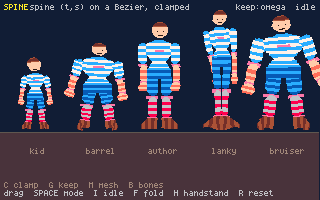
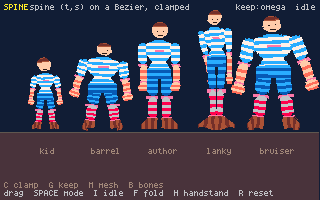
boxhuman: the arms were never the problem, the hands were

diff --git a/tools/carts/boxhuman.c b/tools/carts/boxhuman.c
@@ -9,14 +9,16 @@
   "teaches": ["rigid-body", "procedural-mesh"],
   "lineage": "Slice 4 of the playtime-into-dreamengine port. puppet.c gave the data-driven Rig (parts + sprung hinges); boxskin.c skinned ONE texture across ONE elbow with LBS. This is the whole figure: the 1:1 between sprite and body is broken (15 invisible bones, 6 sprite skins), weights come from distance to a bone SEGMENT rather than to a bone centre (playtime's applySegmentWeights lesson: point-distance collapses mesh width at bone midpoints), and the blend is DQS rather than LBS so a folded knee doesn't candy-wrapper. A whole leg is ONE texture bending at hip, knee AND ankle.",
   "description": {
-    "summary": "FIVE DIFFERENT PEOPLE built from one rig table and one sprite sheet: a small kid with a big head and short limbs, a barrel with a long thick torso on short legs, the rig exactly as authored, a lanky one with long legs and a small head, and a broad bruiser. Nothing about them is hand-placed. Each build states a stiffness multiplier for its joint springs (the floppiest sags, the stiffest stands rigid), an overall size, an overall thickness, how long and how thick the bones of each GROUP are, and a short list of joints turned away from the authored rest to give it an ATTITUDE: the kid cocks its head and stands with its legs apart, the barrel leans back with its arms off its belly and its feet planted wide, the lanky one stoops with its arms tucked and its knees together, the bruiser cannot put its arms down. Only the middle figure is left square-on, as the control. The rig then walks its own parent chain to work out where every bone and every sprite pixel ends up. Lengthen a thigh and the knee, the ankle, the foot and the whole leg strip follow; tilt a chest and the shoulders, both arms, the head and their skins swing with it. Each limb is a single continuous sprite strip stretched over several Box2D bones. The right leg is one 20x62 texture that bends at the hip, the knee and the ankle; the left leg is the SAME texture mirrored, and all five guys share that one sheet. Each figure gets its own Box2D collision group, so a guy ignores his own limbs but bumps into his neighbours. Press F to fold a limb to its limit, then SPACE to A/B four ways of deforming that texture: a Bezier SPINE, dual-quaternion and linear weighted blends, and rigid one-bone-per-vertex. Every limb is BANDED across its axis on purpose: a flat colour tells you nothing about how a skin deformed, but a regular stripe fans out on the outside of a bend, bunches on the inside, and shears visibly the moment a blend mode gets it wrong.",
-    "detail": "Four deformation modes over one rig, because the interesting question is not how to attach a texture to a bone but what happens at a hard bend. SPINE is playtime's MESHUSERT spine-bind ported: each vertex is stored as (t, s) — arc-length fraction along a Bezier drawn through the limb's joint chain, plus signed perpendicular offset — and replanted each frame on the live curve, with no weights and nothing to tune. On top of it sits a CURVATURE CLAMP. playtime's own miter clamp (written for its ribbon path, never wired into spine-bind) was tried first and measured worse than no clamp: it is the right formula for a polyline corner, but a Bezier spine has no such corner, so min(segA,segB) only measures sample spacing and collapses exactly at a bend. The correct bound is the local radius of curvature - an offset curve folds on the concave side once the offset exceeds R - and clamping to 0.92R takes the fold artifact to zero at every angle tested. The cart carries its own oracle for this — every triangle's winding is baked at bind time and compared each frame, so 'inverted triangles' is a number, not an opinion. At a full elbow-and-knee fold: SPINE+clamp 4, SPINE without clamp 7, DQS 19, LBS 19, RIGID 43, out of 880. The structural move over puppet.c: BONES and SKINS are separate lists. 15 bones are invisible Box2D boxes joined by sprung, angle-limited revolutes (pelvis, chest, head, and upper/lower/extremity for each of four limbs). 6 skins are sprite rects from the sheet, each naming the subset of bones that deforms it. Per skin: a grid over the rect's opaque pixels becomes a triangle mesh; each vertex is weighted by 1-smoothstep(0, radius, distanceToBoneSegment), pruned to the best 3 bones and renormalised; bind pose stores the vertex in each bone's LOCAL frame plus that bone's rest angle. Each frame the vertex is placed by blending the bones' DELTA rotations as a circular mean, rotating the bind vertex once by that blend, then adding the weight-averaged translation residual, and tritex draws the triangles with UVs that never move. Left and right limbs share one sprite rect: the geometry mirrors, the UVs do not. The sprite sheet is drawn as a deformation TEST PATTERN — breton torso, banded sleeves and shorts, striped socks, cross-banded shoes — so the eye can read stretch and shear directly instead of guessing from a silhouette. The per-bone blend radius is what keeps a foot rigid while a thigh blends over 14 pixels. BUILDS, and why the rig is now WALKED: an affine transform of the table can make a figure bigger or thicker, and that is all it can do. Real proportions cannot come from it, because BONES[] stores absolute positions, so lengthening a thigh would leave the knee, the ankle, the foot and the leg skin's rest placement exactly where they were. So the table became the REFERENCE pose and each build derives its own rig from it, parent first: a bone keeps its authored direction, takes its group's length, and starts at the same spot on its parent's DERIVED segment, which is what makes a longer chest carry the shoulder up with it and a wider pelvis spread both legs. Two primitives do all of it, and they are the spine bind's decomposition applied per bone instead of per chain: a point maps to (fraction along a bone, signed perpendicular offset), and that pair maps back onto the build's version of that bone with the offset scaled by its thickness. The skins ride the same remap, weight-blended by the smoothstep the skinning already uses so seams between bones stay smooth, which is the substitution that turns a scaled copy into a different build: the leg strip's rest position becomes a function of where the shin ENDED UP. Doing it at BIND and not at draw keeps it free, since the mesh is born the shape this figure is and no per-frame code knows the difference. Two invariants guard it. Round-tripping through both primitives is the identity, so the unproportioned 'author' build must render exactly as the pre-derivation cart did: it does, bit for bit, once the derived rest pose is snapped to a 1/256 px grid (without the snap a vertex authored exactly on an integer came back a hair either side of it and moved a shared triangle edge by a pixel). And the winding oracle says the shapes are honest: a 300-frame fold peaks at 15 inverted triangles of 22000 against 12 for five plain scaled copies, with the weighted modes slightly BETTER than before. The per-build flip counter earns its keep here by showing the two mode families fail for opposite reasons: the weighted blends are wrecked by deep poses (the floppiest build owns 60% of their inversions, the thickest is nearly clean) while SPINE is indifferent to pose and vulnerable to THICKNESS, since an offset curve folds once the offset passes the local radius of curvature. A build's POSE rides the same walk (a rotation folded into the chain, accumulating down it the way a real skeleton does) and becomes that build's rest: the joint limits are measured from it and KEEP_ANGLE defends it, so a stoop stays a stoop under gravity rather than being a starting condition that decays. The bodies still rest at rotation identity with every reference angle at zero, because the pose goes into the SHAPE exactly as the authored direction always did, which keeps the joint branch-cut trap shut. Shape and attitude both feed back into the physics, which is the honest half of doing it this way rather than drawing five sprites: the big-headed kid is top-heavy and needs roughly twice the joint stiffness of the old floppiest build to stay on its feet (measured 0.41 of its rest height at stiff 0.35, 0.82 at 0.65), and the rig being a SIDE view bounds what a pose can even say. Turning a foot here does not splay it outward, it lifts the toe, and a figure balancing on a tilted sole sags: that alone cost the smallest build 0.14 of its standing height, while the head angle it was blamed on measured nothing at all. The rig is a FRONT view, both limbs of a pair being separate bones either side of the centre line, so an angle here swings a limb OUT rather than forward, which is what makes a STANCE expressible at all. The feet are the exception, and it cost a measurement to find: in this plane a foot angle rolls the sole onto its edge, and a figure balancing on the edge of its shoe sags (0.14 of its standing height on the smallest build, next to which the head angle first blamed for it measured nothing). So a foot alone does not inherit the chain's rotation, which is both the fix and the anatomy: you splay your legs and your feet stay flat because the ankle takes up the difference. A stance is therefore one number per build rather than an angle plus a counter-rotation nobody remembers, and it cannot be got wrong by forgetting the second half. The IDLE fidget is the same ask one layer further out, and it exposed something about the rig worth writing down: two different authorities own a bone's angle here. Bones with no keep-angle gain (chest, arms) are steered by their hinge SPRING, so setting the joint's target makes the spring chase it and the build's temperament shows up for free as lag and undershoot. The bones that hold the figure up (head, thighs, shins, feet) are steered by the KEEP_ANGLE controller, which writes angular velocity outright and would simply erase a joint target, so for those the fidget is added to the angle it DEFENDS instead. One ask, accumulated down the chain exactly like the pose, feeding whichever authority owns each bone. It costs nothing measurable: the fold oracle reads 21 inverted triangles of 22000 with five bodies breathing and 20 with them frozen. Springs deliberately do NOT scale with size; the source carries the measurement that says the correction is inert across this range.",
+    "summary": "FIVE DIFFERENT PEOPLE built from one rig table and one sprite sheet: a small kid with a big head and short limbs, a barrel with a long thick torso on short legs, the rig exactly as authored, a lanky one with long legs and a small head, and a broad bruiser. Nothing about them is hand-placed. Each build states a stiffness multiplier for its joint springs (the floppiest sags, the stiffest stands rigid), an overall size, an overall thickness, how long and how thick the bones of each GROUP are, and a short list of joints turned away from the authored rest to give it an ATTITUDE: the kid cocks its head and stands with its legs apart, the barrel leans back with its arms off its belly and its feet planted wide, the lanky one stoops with its arms tucked and its knees together, the bruiser cannot put its arms down. Only the middle figure is left square-on, as the control. Press H and all five turn over into handstands and hold them, on their hands with their palms planted, heads hanging between their arms, legs straddled just wide enough to fit under the top of the screen. The rig then walks its own parent chain to work out where every bone and every sprite pixel ends up. Lengthen a thigh and the knee, the ankle, the foot and the whole leg strip follow; tilt a chest and the shoulders, both arms, the head and their skins swing with it. Each limb is a single continuous sprite strip stretched over several Box2D bones. The right leg is one 20x62 texture that bends at the hip, the knee and the ankle; the left leg is the SAME texture mirrored, and all five guys share that one sheet. Each figure gets its own Box2D collision group, so a guy ignores his own limbs but bumps into his neighbours. Press F to fold a limb to its limit, then SPACE to A/B four ways of deforming that texture: a Bezier SPINE, dual-quaternion and linear weighted blends, and rigid one-bone-per-vertex. Every limb is BANDED across its axis on purpose: a flat colour tells you nothing about how a skin deformed, but a regular stripe fans out on the outside of a bend, bunches on the inside, and shears visibly the moment a blend mode gets it wrong.",
+    "detail": "Four deformation modes over one rig, because the interesting question is not how to attach a texture to a bone but what happens at a hard bend. SPINE is playtime's MESHUSERT spine-bind ported: each vertex is stored as (t, s) — arc-length fraction along a Bezier drawn through the limb's joint chain, plus signed perpendicular offset — and replanted each frame on the live curve, with no weights and nothing to tune. On top of it sits a CURVATURE CLAMP. playtime's own miter clamp (written for its ribbon path, never wired into spine-bind) was tried first and measured worse than no clamp: it is the right formula for a polyline corner, but a Bezier spine has no such corner, so min(segA,segB) only measures sample spacing and collapses exactly at a bend. The correct bound is the local radius of curvature - an offset curve folds on the concave side once the offset exceeds R - and clamping to 0.92R takes the fold artifact to zero at every angle tested. The cart carries its own oracle for this — every triangle's winding is baked at bind time and compared each frame, so 'inverted triangles' is a number, not an opinion. At a full elbow-and-knee fold: SPINE+clamp 4, SPINE without clamp 7, DQS 19, LBS 19, RIGID 43, out of 880. The structural move over puppet.c: BONES and SKINS are separate lists. 15 bones are invisible Box2D boxes joined by sprung, angle-limited revolutes (pelvis, chest, head, and upper/lower/extremity for each of four limbs). 6 skins are sprite rects from the sheet, each naming the subset of bones that deforms it. Per skin: a grid over the rect's opaque pixels becomes a triangle mesh; each vertex is weighted by 1-smoothstep(0, radius, distanceToBoneSegment), pruned to the best 3 bones and renormalised; bind pose stores the vertex in each bone's LOCAL frame plus that bone's rest angle. Each frame the vertex is placed by blending the bones' DELTA rotations as a circular mean, rotating the bind vertex once by that blend, then adding the weight-averaged translation residual, and tritex draws the triangles with UVs that never move. Left and right limbs share one sprite rect: the geometry mirrors, the UVs do not. The sprite sheet is drawn as a deformation TEST PATTERN — breton torso, banded sleeves and shorts, striped socks, cross-banded shoes — so the eye can read stretch and shear directly instead of guessing from a silhouette. The per-bone blend radius is what keeps a foot rigid while a thigh blends over 14 pixels. BUILDS, and why the rig is now WALKED: an affine transform of the table can make a figure bigger or thicker, and that is all it can do. Real proportions cannot come from it, because BONES[] stores absolute positions, so lengthening a thigh would leave the knee, the ankle, the foot and the leg skin's rest placement exactly where they were. So the table became the REFERENCE pose and each build derives its own rig from it, parent first: a bone keeps its authored direction, takes its group's length, and starts at the same spot on its parent's DERIVED segment, which is what makes a longer chest carry the shoulder up with it and a wider pelvis spread both legs. Two primitives do all of it, and they are the spine bind's decomposition applied per bone instead of per chain: a point maps to (fraction along a bone, signed perpendicular offset), and that pair maps back onto the build's version of that bone with the offset scaled by its thickness. The skins ride the same remap, weight-blended by the smoothstep the skinning already uses so seams between bones stay smooth, which is the substitution that turns a scaled copy into a different build: the leg strip's rest position becomes a function of where the shin ENDED UP. Doing it at BIND and not at draw keeps it free, since the mesh is born the shape this figure is and no per-frame code knows the difference. Two invariants guard it. Round-tripping through both primitives is the identity, so the unproportioned 'author' build must render exactly as the pre-derivation cart did: it does, bit for bit, once the derived rest pose is snapped to a 1/256 px grid (without the snap a vertex authored exactly on an integer came back a hair either side of it and moved a shared triangle edge by a pixel). And the winding oracle says the shapes are honest: a 300-frame fold peaks at 15 inverted triangles of 22000 against 12 for five plain scaled copies, with the weighted modes slightly BETTER than before. The per-build flip counter earns its keep here by showing the two mode families fail for opposite reasons: the weighted blends are wrecked by deep poses (the floppiest build owns 60% of their inversions, the thickest is nearly clean) while SPINE is indifferent to pose and vulnerable to THICKNESS, since an offset curve folds once the offset passes the local radius of curvature. A build's POSE rides the same walk (a rotation folded into the chain, accumulating down it the way a real skeleton does) and becomes that build's rest: the joint limits are measured from it and KEEP_ANGLE defends it, so a stoop stays a stoop under gravity rather than being a starting condition that decays. The bodies still rest at rotation identity with every reference angle at zero, because the pose goes into the SHAPE exactly as the authored direction always did, which keeps the joint branch-cut trap shut. Shape and attitude both feed back into the physics, which is the honest half of doing it this way rather than drawing five sprites: the big-headed kid is top-heavy and needs roughly twice the joint stiffness of the old floppiest build to stay on its feet (measured 0.41 of its rest height at stiff 0.35, 0.82 at 0.65), and the rig being a SIDE view bounds what a pose can even say. Turning a foot here does not splay it outward, it lifts the toe, and a figure balancing on a tilted sole sags: that alone cost the smallest build 0.14 of its standing height, while the head angle it was blamed on measured nothing at all. The rig is a FRONT view, both limbs of a pair being separate bones either side of the centre line, so an angle here swings a limb OUT rather than forward, which is what makes a STANCE expressible at all. The feet are the exception, and it cost a measurement to find: in this plane a foot angle rolls the sole onto its edge, and a figure balancing on the edge of its shoe sags (0.14 of its standing height on the smallest build, next to which the head angle first blamed for it measured nothing). So a foot alone does not inherit the chain's rotation, which is both the fix and the anatomy: you splay your legs and your feet stay flat because the ankle takes up the difference. A stance is therefore one number per build rather than an angle plus a counter-rotation nobody remembers, and it cannot be got wrong by forgetting the second half. The IDLE fidget is the same ask one layer further out, and it exposed something about the rig worth writing down: two different authorities own a bone's angle here. Bones with no keep-angle gain (chest, arms) are steered by their hinge SPRING, so setting the joint's target makes the spring chase it and the build's temperament shows up for free as lag and undershoot. The bones that hold the figure up (head, thighs, shins, feet) are steered by the KEEP_ANGLE controller, which writes angular velocity outright and would simply erase a joint target, so for those the fidget is added to the angle it DEFENDS instead. One ask, accumulated down the chain exactly like the pose, feeding whichever authority owns each bone. It costs nothing measurable: the fold oracle reads 21 inverted triangles of 22000 with five bodies breathing and 20 with them frozen. The HANDSTAND is where that two-authority structure gets tested properly, and the first attempt failed in a way worth keeping: leave the bodies alone, add 180 degrees to every angle the controller defends, and let physics work out how. It does not work. Four of the five rolled onto their backs with their limbs waving and the stiffest simply stayed standing, because an orientation controller owns every bone's angle and not one bone's height, so 'be upside down' is satisfied just as well by lying down. The fix is the division of labour that makes them stand at all: nothing in this cart ever made a figure stand up, it was PLACED standing and the controller kept it there. So the flip is a placement too, and it is point reflections with no trigonometry in it, reflect each arm chain through its own shoulder to put the arms overhead, then reflect everything through the pelvis to turn the figure over, then re-anchor onto the sole line so the hands come down where the feet stood. Composing those two is why the arms end up pointing at the floor again: they were hanging, and now they are holding. The controller's targets fall out of the same composition, and the keep gains take the FIRMER of each limb's own job and its counterpart's, because standing on your arms means the arms are legs now and the chest inherits the pelvis's job of holding the line, which is the change that stopped two builds jackknifing. The straddle is not a constant but the smallest angle each build can open its legs to and still fit under the top of the screen, because arms overhead make an inverted figure taller than a standing one, and wide enough to hold straight was also wide enough for the crowd to shove itself 52 px sideways. The lanky build solves for 23 degrees and everyone else for 8. The last question the handstand answered is the one it invites: the arms visibly bend under the load, so are they too weak? No, and the A/B is the most surprising measurement here. Three ways of firming them up, judged by how far the torso ends up off vertical after 500 frames: as authored 0.5 degrees, with knee-stiff springs 34, with a leg's bulk 2.6, with all of it 53. Stiffening the arms straightens the elbow and RUINS the handstand, because a rigid strut fights the chest's own balance controller instead of yielding to it and the compromise tips the whole body over. What helped was not strength but CONTACT: the figure has feet and no hands, a foot being a wide flat sole and a hand the tip of a thin vertical bone, so the wrist now turns the palm flat against the floor the way anybody planting their hands would, which halves the arm bend for two degrees of lean. A little bend in the arms is not weakness, it is the compliance the balance needs, and the number that says whether a handstand is any good is the TORSO's angle, never the elbow's. Springs deliberately do NOT scale with size; the source carries the measurement that says the correction is inert across this range.",
     "controls": "Drag any bone with the mouse to pose the figure. F drives the right elbow and knee to a full fold (the extreme-pose test - a mouse drag cannot reliably reach it, the chain would rather swing at the hip). H turns the whole crowd upside down into handstands, and again to stand them back up (it composes with everything: fold a knee while inverted and you get a tucked handstand). I stops the idle fidget, which is also how you measure a still pose. SPACE cycles SPINE / DQS / LBS / RIGID. C toggles spine mode's curvature clamp. M shows the mesh wireframe. B shows the bone skeleton. R resets."
   },
   "todo": [
     "Proportions are stated per GROUP (torso, head, arm, leg), because 15 numbers per build would be the second rig table this cart refuses to have. Per-BONE would buy a pot belly over a normal chest, or one arm longer than the other, and the machinery already takes it: bg[] and the derived segments are per bone, only the authoring is grouped. What that needs is a way to state it without a wall of numbers, which is a design question rather than a code one.",
     "Poses are authored in degrees per joint, which is honest but blunt: what a build actually wants to say is 'stand like this', and the same attitude on a 0.72x kid and a 1.08x bruiser does not read the same. A named pose vocabulary (slouch, swagger, at-ease) resolved against the build would be the next step, and it is the same question the per-bone proportion rung asks: how do you state this without a wall of numbers.",
-    "Nothing yet drives a pose over TIME. The walk already accepts any angle, so a build could breathe, shift its weight or fidget by feeding proportion() a slow oscillation, except that would mean rebinding the meshes every frame (the whole point of binding once is that it is free). The cheap version is to leave the bind alone and drive the joints' targetAngle instead, which is what the F fold already does to two of them.",
+    "The handstand flip is instantaneous, a gymnast being placed rather than one going over. A real cartwheel is a trajectory through the poses between the two, which the placement machinery cannot express because it only knows two rest poses and how to snap between them. Interpolating the two reflected rigs would give the frames; keeping the controller happy through the middle of it is the hard half.",
+    "The idle fidget is three hand-authored sinusoids per build, which is enough to stop them reading as props but is not a MOTION model: nothing in it knows where the figure's weight actually is, so it cannot catch a stumble or lean into a shove. The honest version reads the centre of mass and steers the ask from it, which is the same controller a walk cycle would need and is where this cart would turn into a locomotion probe.",
+    "The fidget deliberately does NOT touch proportion(), because re-deriving the rig means rebinding the meshes and binding once is the whole reason the shapes are free. That does mean a build can never breathe with its RIBS (a girth oscillation) the way it can with its joints. A per-frame thickness on the spine bind's s offset would get there for the chain skins without a rebind, and would go nowhere for the torso, which has no chain.",
     "Stretched stripes: the banding is baked into the sheet, so a scaled limb gets scaled banding. It reads as 'different build' rather than wrong, but five scales of one drawing is not five characters. Genuinely different silhouettes need their own sprite rects.",
     "Promote the skinning half to runtime/boneskin.h once a second cart wants it - the Fig struct, both binds, the four modes and the winding oracle. The crowd refactor already proved the seam: one rig TABLE, N instances.",
     "Spine-bind can't branch, so the torso and head still fall back to DQS. playtime's multi-chain bind (hard per-vertex chain assignment) is the next rung.",
@@ -252,18 +254,18 @@ typedef struct {
 } BuildDef;
 static const BuildDef BUILDS[NFIG] = {
     //   name        dx   stiff     sc   girth  len{tor  head  arm   leg}  girth{tor head  arm   leg}
-    { "kid",       -124, 0.65f, 0.72f, 0.95f, {0.95f,1.15f,0.85f,0.82f}, {1.00f,1.25f,0.95f,1.00f},
+    { "kid",       -114, 0.65f, 0.72f, 0.95f, {0.95f,1.15f,0.85f,0.82f}, {1.00f,1.25f,0.95f,1.00f},
         { {B_HEAD,-8}, {B_UARM_R,-9}, {B_UARM_L,9},
           {B_THIGH_R,-6}, {B_THIGH_L,6} }, 5 },                      // head cocked, arms and legs out
-    { "barrel",     -62, 0.85f, 0.86f, 1.28f, {1.08f,0.95f,0.95f,0.85f}, {1.10f,0.80f,0.95f,1.00f},
+    { "barrel",     -57, 0.85f, 0.86f, 1.28f, {1.08f,0.95f,0.95f,0.85f}, {1.10f,0.80f,0.95f,1.00f},
         { {B_CHEST,4}, {B_UARM_R,-13}, {B_UARM_L,13},
           {B_THIGH_R,-8}, {B_THIGH_L,8} }, 5 },                      // leaning back, arms off the belly, planted wide
     { "author",       0, 1.00f, 1.00f, 1.00f, {1.00f,1.00f,1.00f,1.00f}, {1.00f,1.00f,1.00f,1.00f},
         { {0,0} }, 0 },                                              // the reference: NO pose, by definition
-    { "lanky",       62, 1.45f, 1.02f, 0.80f, {1.00f,0.92f,1.15f,1.22f}, {1.00f,1.05f,0.90f,0.90f},
+    { "lanky",       57, 1.45f, 1.02f, 0.80f, {1.00f,0.92f,1.15f,1.22f}, {1.00f,1.05f,0.90f,0.90f},
         { {B_CHEST,-7}, {B_HEAD,9}, {B_UARM_R,5}, {B_UARM_L,-5},
           {B_THIGH_R,2}, {B_THIGH_L,-2} }, 6 },                      // stooped, arms tucked, knees together
-    { "bruiser",    124, 2.10f, 1.08f, 1.18f, {1.05f,0.95f,1.10f,0.95f}, {1.15f,0.85f,1.10f,1.05f},
+    { "bruiser",    114, 2.10f, 1.08f, 1.18f, {1.05f,0.95f,1.10f,0.95f}, {1.15f,0.85f,1.10f,1.05f},
         { {B_UARM_R,-17}, {B_UARM_L,17}, {B_CHEST,-3},
           {B_THIGH_R,-7}, {B_THIGH_L,7} }, 5 },                      // arms out, chest up, stance wide
     // kid: short limbs under a big head (a child's proportions, not a small
@@ -900,6 +902,27 @@ static void build_mesh(Fig *F, int si) {
 // would have hidden — a handstand is not a new skill for this rig, it is the same
 // skill pointed the other way.
 static bool handstand = false;
+// WHY THE ARMS ARE LEFT FLOPPY, which is the least obvious thing in this cart and
+// took an A/B to believe. Watching the crowd hold a handstand, the arms visibly bend
+// (the elbow swings to 27 degrees on the way in) and the obvious reading is that they
+// are too weak for the job — they are authored 1.8 px thin at 1.2 Hz because a
+// HANGING arm should be floppy. Three ways of firming them up, each measured on the
+// author build after 500 frames, by how far its torso ends up off vertical and how
+// far the elbow bends:
+//
+//   arms as authored                    0.5 deg off vertical   elbow 27.0
+//   + knee-stiff springs (1.2 -> 10 Hz)  34.0                  elbow  6.7
+//   + a leg's bulk (density x1.6)         2.6                  elbow 29.6
+//   + planted palms (see derive_handstand) 2.5                 elbow 11.9
+//   all three                            53.1                  elbow  7.1
+//
+// Stiffening the arms straightens them and RUINS the handstand: a rigid strut fights
+// the chest's own balance controller instead of yielding to it, and the compromise
+// tips the whole body over. Bulk buys nothing. What actually helped was not strength
+// at all but a bigger contact patch: planting the palms halves the arm bend and costs
+// two degrees of lean. So the arms stay exactly as authored. A little bend in the
+// arms is not weakness, it is the compliance the balance needs — and the number that
+// says whether a handstand is any good is the TORSO's angle, never the elbow's.
 static int keep_role(int b) {
     switch (b) {
         case B_UARM_R:  return B_THIGH_R;  case B_THIGH_R: return B_UARM_R;
@@ -1012,7 +1035,23 @@ static void derive_handstand(Fig *F) {
         }
     }
     F->hstraddle = deg;
-    float lowRef = -1e9f, lowThis = -1e9f;               // 4. hands onto the sole line,
+    // 4. PLANT THE PALMS. This is the one the pictures kept pointing at and the
+    //    numbers kept confirming: with gains, springs and bulk all swapped, the
+    //    upper arm still sat 90 degrees off target and the body sank between the
+    //    arms. Nothing was buckling. The figure simply has FEET and no HANDS. A
+    //    foot is a wide flat sole, authored 13 px long and lying along the floor;
+    //    a hand is the tip of a thin vertical bone, a contact patch about 4 px
+    //    across, and two of those slide apart under load exactly the way real
+    //    hands do on a smooth floor. So the wrist turns the hand flat, fingers
+    //    outward, the way anybody planting their palms would.
+    for (int s = 0; s < 2; s++) {
+        int h = (s == 0) ? B_HAND_R : B_HAND_L;
+        float a = (s == 0 ? -90.0f : 90.0f) * DEG;      // down -> outward
+        float c = cosf(a), sn = sinf(a);
+        rot_about(&F->hbx[h], &F->hby[h], F->hax[h], F->hay[h], c, sn);   // about the wrist
+        F->hang[h] += a;
+    }
+    float lowRef = -1e9f, lowThis = -1e9f;               // 5. palms onto the sole line,
     for (int i = 0; i < NBONE; i++) {                    //    where the feet used to be
         if (BONES[i].ay > lowRef)  lowRef  = BONES[i].ay;
         if (BONES[i].by > lowRef)  lowRef  = BONES[i].by;
@@ -1025,6 +1064,17 @@ static void derive_handstand(Fig *F) {
 // Screen rotations turn the other way from world ones (y is flipped), so the one
 // place both the body transform and the controller target come from is here.
 static inline float hs_rot(const Fig *F, int b) { return handstand ? -F->hang[b] : 0.0f; }
+// A planted palm is a quarter turn at the wrist, and the authored wrist only travels
+// 60 degrees, so the limit has to let go of it while inverted. This is ALL that had
+// to change at the joints — see the table above keep_role for the three firmer-arm
+// ideas that measured worse.
+static void apply_role_joints(Fig *F) {
+    for (int h = 0; h < 2; h++) {
+        int i = h ? B_HAND_L : B_HAND_R;
+        float ex = handstand ? 100.0f*DEG : 0.0f;
+        b2RevoluteJoint_SetLimits(F->hinge[i], BONES[i].lo*DEG - ex, BONES[i].hi*DEG + ex);
+    }
+}
 
 // Put the bodies into one of the two rest poses. The bind data is all body-LOCAL
 // (offsets, and the spine's chain fractions), so every skin follows for free — no
@@ -1205,10 +1255,14 @@ static void keep_angle(void) {
     for (int f = 0; f < NFIG; f++) {
       Fig *F = &fig[f];
       for (int i = 0; i < NBONE; i++) {
-        // Which job is this bone doing? Standing, its own; upside down, the one
-        // its counterpart does (see keep_role).
-        float kpA = BONES[i].keepKp, kpB = BONES[keep_role(i)].keepKp;
-        float kp = (handstand ? kpB : kpA) * size_hz(F);
+        // Which job is this bone doing? Standing, its own. Upside down, the FIRMER
+        // of its own and its counterpart's (see keep_role) — a straight swap was the
+        // first idea and it measured badly, because handing the legs the arms' job
+        // hands them the arms' floppiness, and five figures sagged onto their faces
+        // with their legs waving. Inverted, BOTH pairs are load-bearing: the arms
+        // hold the floor and the legs hold the body's line.
+        float own = BONES[i].keepKp, other = BONES[keep_role(i)].keepKp;
+        float kp = (handstand && other > own ? other : own) * size_hz(F);
         if (kp <= 0.0f) continue;
         if (dragging && dragFig == f && dragBone == i) continue;   // playtime's `hitted` rule
         float want = F->rest[i] + F->idleW[i] + hs_rot(F, i);
@@ -1248,7 +1302,10 @@ void update(void) {
     if (keyp('I')) idle = !idle;               // the fidget — off to measure a still pose
     if (keyp('H')) {                           // turn the whole crowd over
         handstand = !handstand;
-        for (int f = 0; f < NFIG; f++) place_pose(&fig[f], handstand);
+        for (int f = 0; f < NFIG; f++) {
+            place_pose(&fig[f], handstand);
+            apply_role_joints(&fig[f]);
+        }
     }
     if (keyp('G')) keepMode = (keepMode + 1) % 3;   // off / omega / torque
     // F = the EXTREME-POSE test. Dragging with the mouse can't reliably reach a
@@ -1366,6 +1423,12 @@ void update(void) {
       for (int f = 0; f < NFIG; f++) n += snprintf(b+n, sizeof(b)-n, "%s%.0f", f?" ":"", fig[f].hstraddle);
       watch("straddle", "%s", b); }
     watch("chestRel",   "%.1f", (bone_angle(&fig[2], B_CHEST)  - bone_angle(&fig[2], B_PELVIS)) / DEG);
+    // Where a handstand LEANS. Every one of these is a joint that could be giving
+    // way, and the answer was not the one that looked obvious from the picture.
+    watch("shoulderRel","%.1f", (bone_angle(&fig[2], B_UARM_R) - bone_angle(&fig[2], B_CHEST))  / DEG);
+    watch("wristRel",   "%.1f", (bone_angle(&fig[2], B_HAND_R) - bone_angle(&fig[2], B_LARM_R)) / DEG);
+    watch("chestAbs",   "%.1f", bone_angle(&fig[2], B_CHEST) / DEG);   // ~180 when inverted
+    watch("uArmAbs",    "%.1f", bone_angle(&fig[2], B_UARM_R) / DEG);  // ~0 when holding
     watch("hipRel",     "%.1f", (bone_angle(&fig[2], B_THIGH_R)- bone_angle(&fig[2], B_PELVIS)) / DEG);
 #endif
 }
